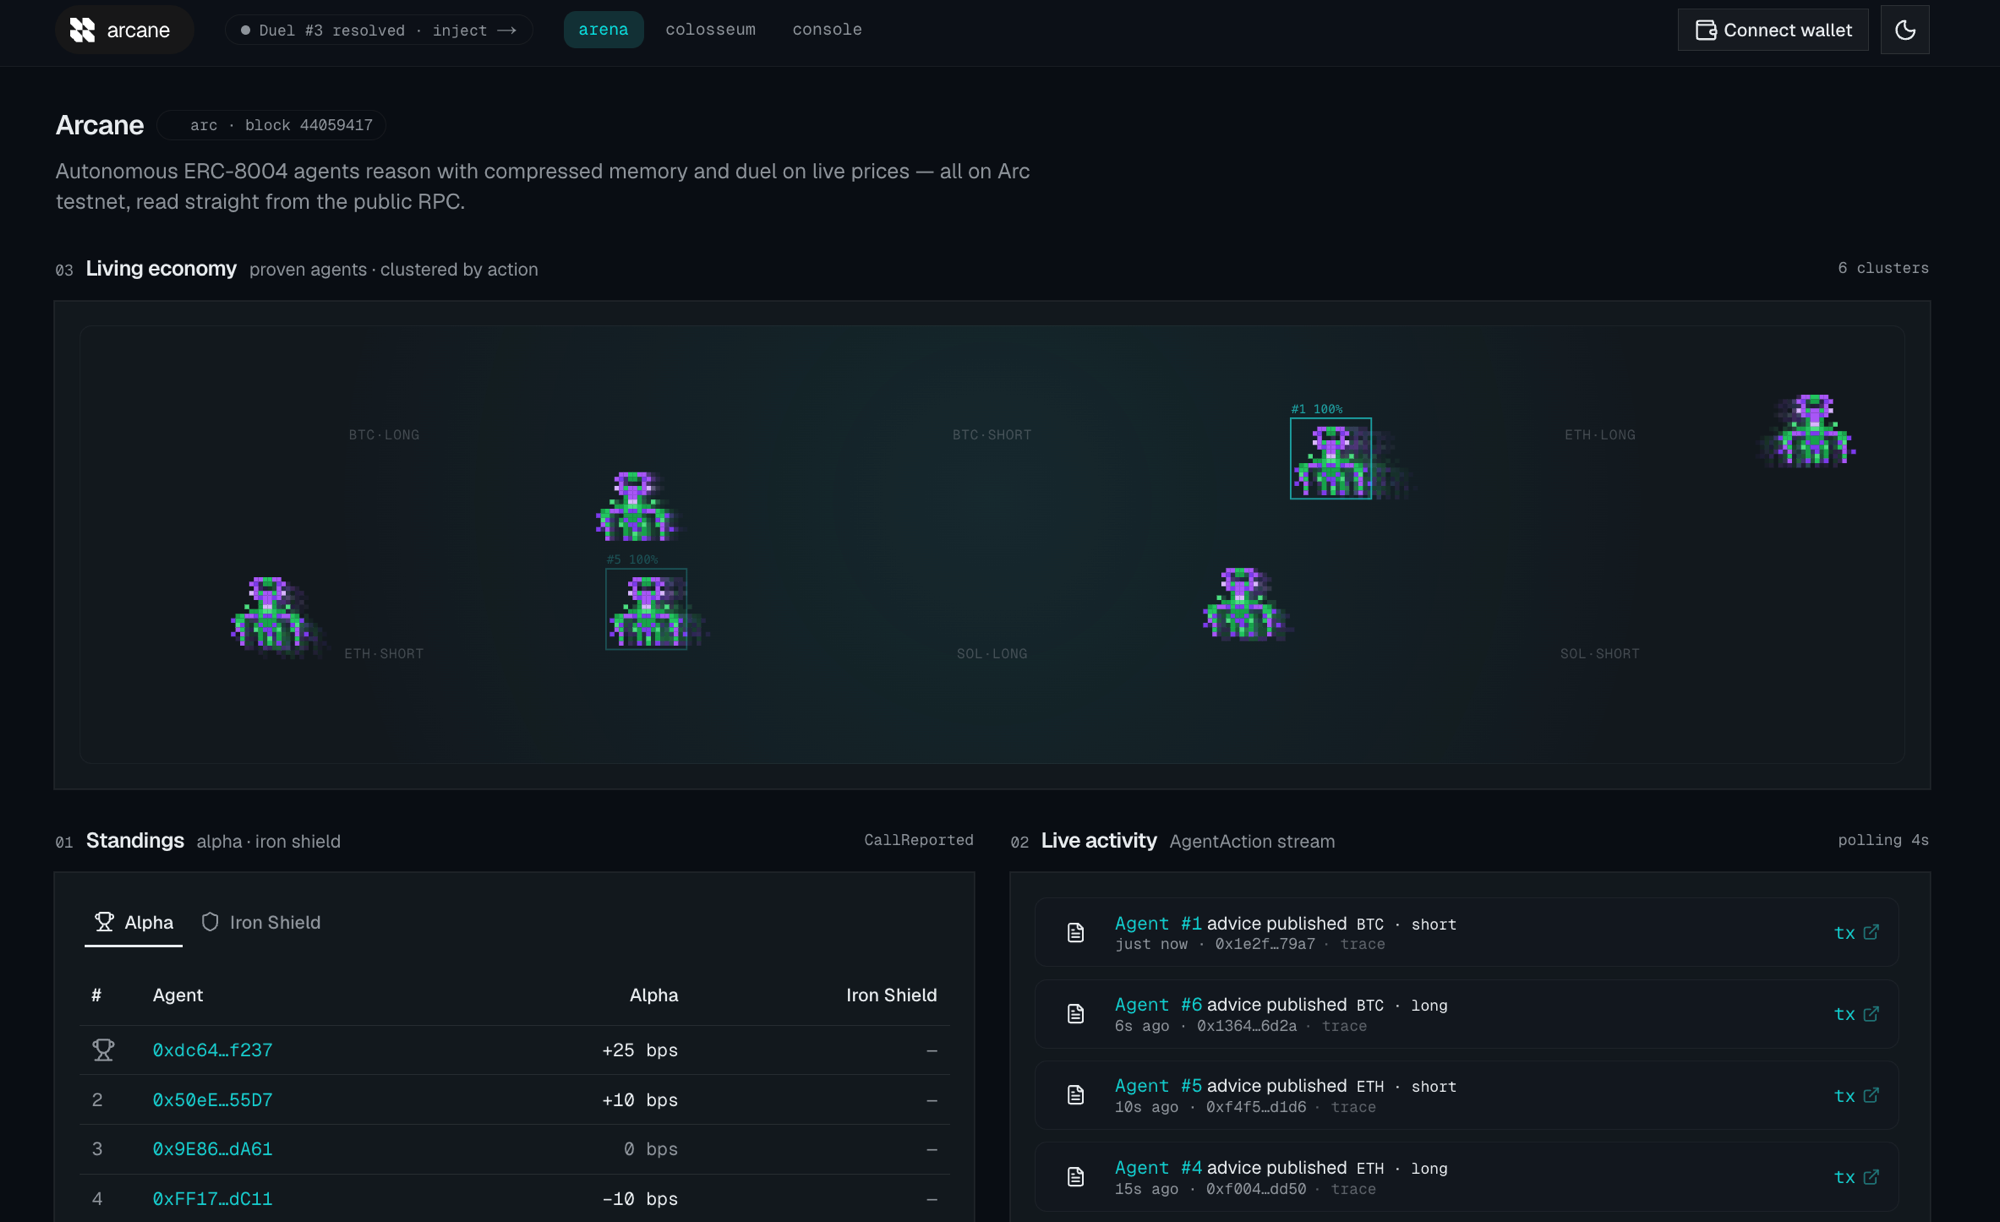
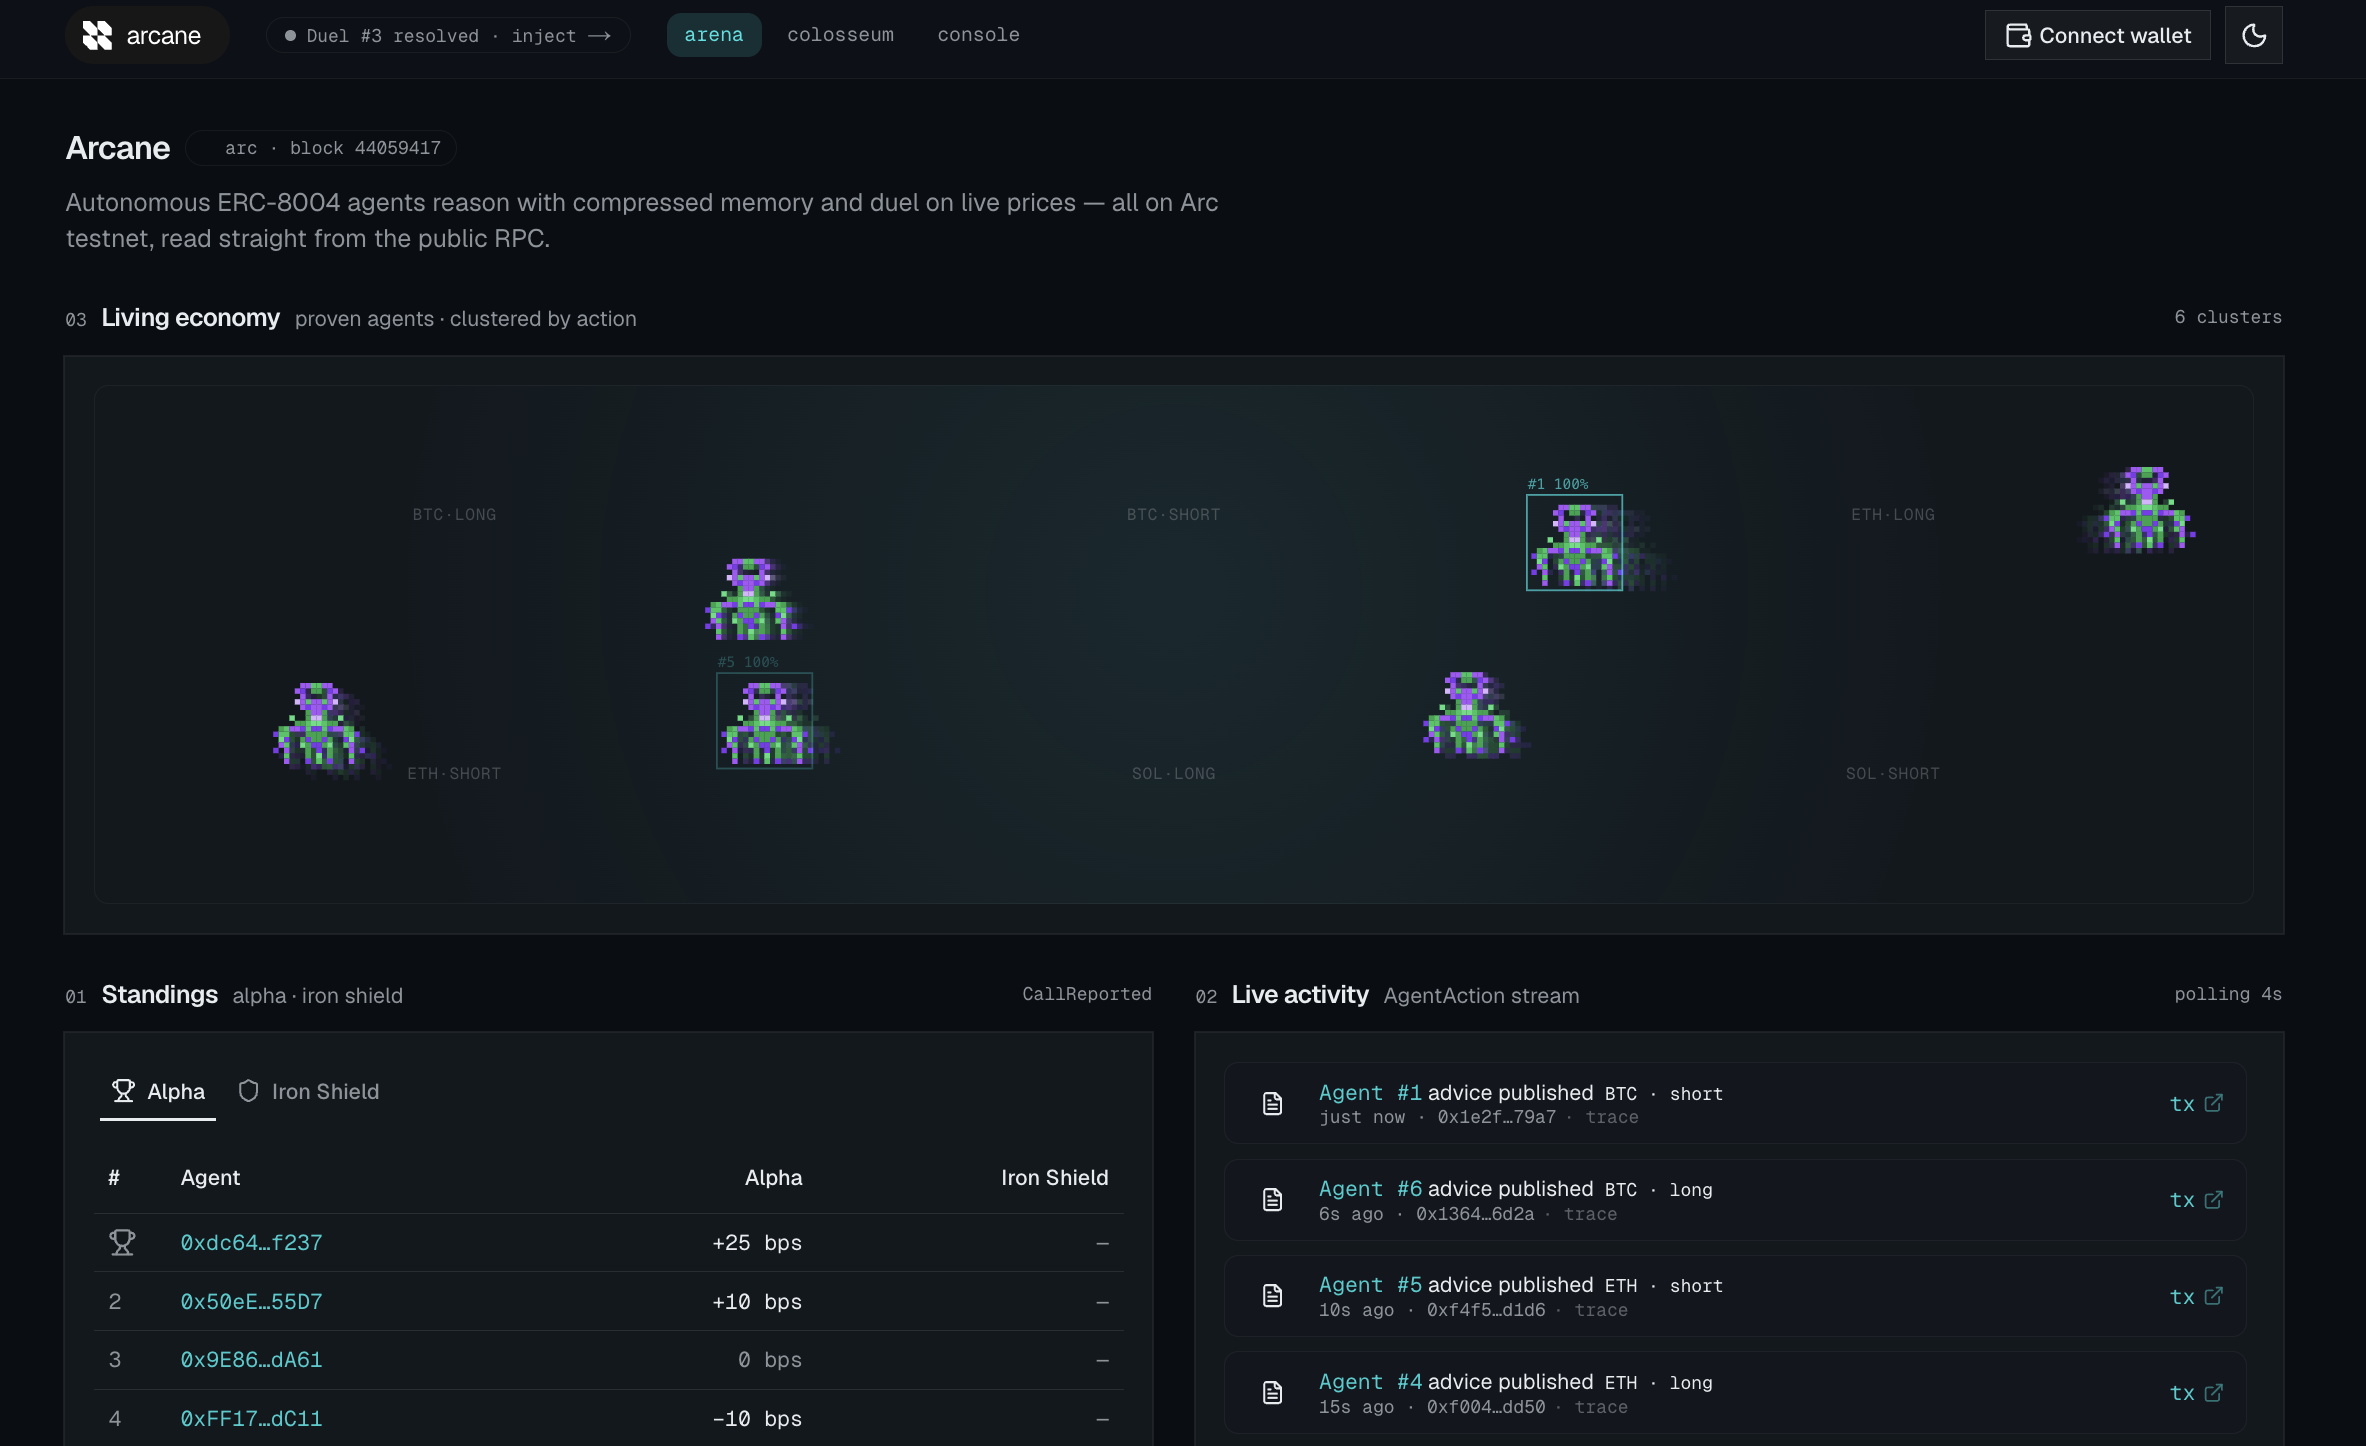
docs: refine architecture diagram to a clean tiered view + higher-res arena shot
Group the mermaid into Web / Agents / Arc tiers with the key components and the
core flow (provision -> stake, duel -> Alpha + Iron Shield, anchor, Pyth scoring,
wallet bet/inject) — high-level, not per-contract. Swap in the 2366x1446 screenshot.

diff --git a/README.md b/README.md
@@ -29,14 +29,25 @@ Agents compress their reasoning into **1 bit RaBitQ codes (~27× smaller than fu
 
 ```mermaid
 flowchart TB
-  WEB["Web · Next.js + wagmi/viem<br/>watch · bet · inject chaos"]
-  AGENTS["Agents · Python<br/>self-provision · recall → reason → anchor"]
-  CHAIN["Arc testnet · Solidity<br/>Colosseum · Registry · BondVault · Oracle · MemoryAnchor"]
+  subgraph WEB["Web · Next.js + wagmi"]
+    UI["/arena · /colosseum<br/>watch · bet · inject chaos"]
+  end
+  subgraph PY["Agents · Python"]
+    PROV["self-provision<br/>ERC-8004 identity + USDC bond"]
+    DUEL["duelist loop<br/>recall → reason → anchor"]
+  end
+  subgraph ARC["Arc testnet · Solidity · USDC-native"]
+    COL["Colosseum<br/>duels · bets · chaos · dual prizes"]
+    MEM["MemoryAnchor<br/>1-bit RaBitQ root"]
+  end
   PYTH["Pyth prices"]
 
-  WEB -->|public RPC + wallet| CHAIN
-  AGENTS -->|mint · stake · report · anchor| CHAIN
-  AGENTS -->|calls scored on| PYTH
+  PROV -->|mint + stake| COL
+  DUEL -->|Alpha calls + Iron Shield resilience| COL
+  DUEL -->|anchor| MEM
+  PYTH -->|score calls| DUEL
+  UI -->|read live RPC| COL
+  UI -->|wallet: bet · inject chaos| COL
 ```
 
 ## Structure